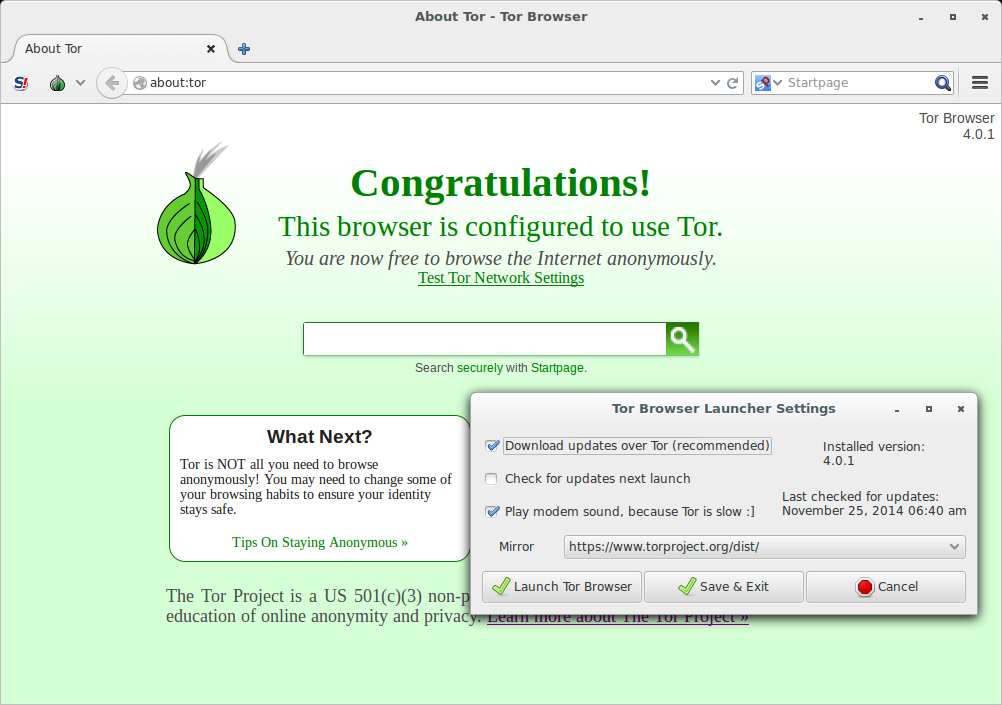
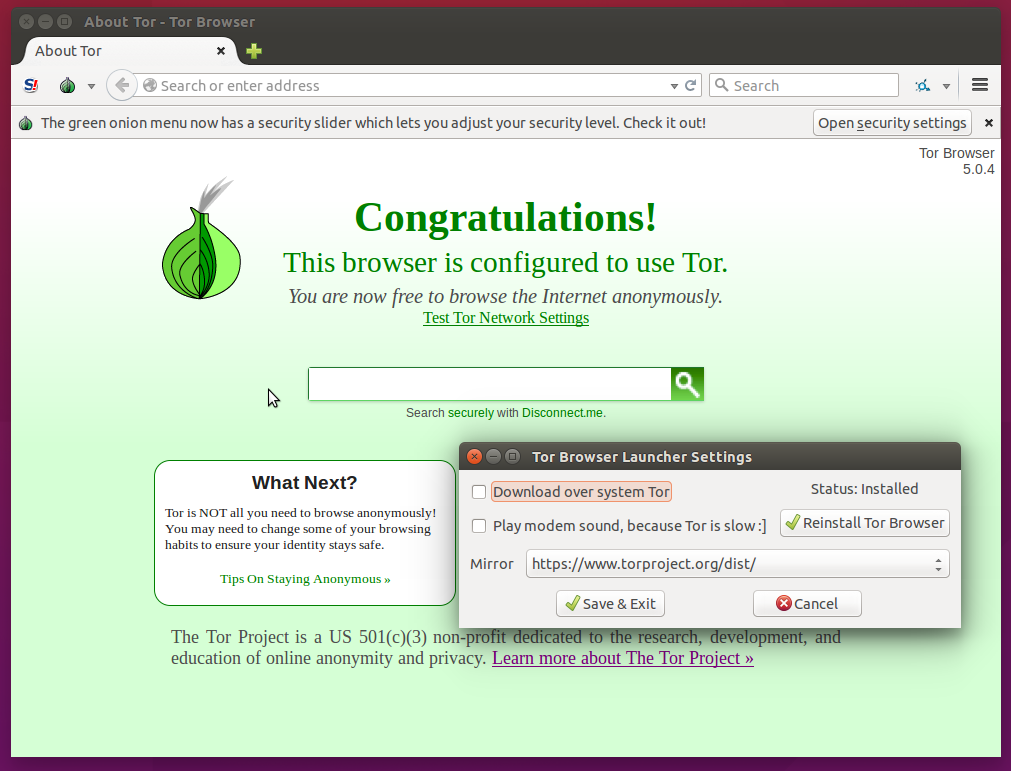
Updated README, and included new screenshot to show off new settings (#198)

diff --git a/README.md b/README.md
@@ -1,29 +1,23 @@
 # Tor Browser Launcher
 
-Tor Browser Launcher is intended to make the Tor Browser Bundle (TBB) easier to maintain and use for GNU/Linux users. You install ```torbrowser-launcher``` from your distribution's package manager and it handles everything else, including:
+Tor Browser Launcher is intended to make the Tor Browser easier to install and use for GNU/Linux users. You install ```torbrowser-launcher``` from your distribution's package manager and it handles everything else:
 
-* Downloading the most recent version of TBB for you, in your language and for your architecture
-* Automatically updating (not preserving your bookmarks and preferences)
-* Verifying the TBB's [GnuPG signature](http://www.gnupg.org/gph/en/manual/x135.html)
+* Downloads the most recent version of Tor Browser in your language and for your computer's architecture (Tor Browser will automatically update itself)
+* Certificate pins to https://www.torproject.org, so it doesn't rely on certificate authorities
+* Verifies Tor Browser's [OpenPGP signature](https://www.torproject.org/docs/verifying-signatures.html.en) for you, to ensure the version you downloaded is not tampered with
+* Adds "Tor Browser" and "Tor Browser Launcher Settings" application launcher to your desktop environment's menu
 * Includes AppArmor profiles to make a Tor Browser compromise not as bad
-* Adding a "Tor Browser" application launcher to your desktop environment's menu
 * Optionally playing a modem sound when you open Tor Browser (because Tor is so slow)
 
-Tor Browser Launcher is included in Ubuntu 14.10+, Debian 8+, and Fedora 20+. To install it in any other distribution, see the [build instructions](/BUILD.md).
+Tor Browser Launcher is included in Ubuntu, Debian, and Fedora. To install it in any other distribution, see the [build instructions](/BUILD.md).
 
 You might want to check out the [security design doc](/security_design.md).
 
 ![Tor Browser Launcher screenshot](/screenshot.png)
 
-## Using Tor Browser as your default browser, and Firefox
+# Installing in Ubuntu
 
-Tor Browser Launcher allows you to set Tor Browser as your default web browser. Unfortunately, there's a gnarly issue that prevents this from working if Firefox is open in the background. If Tor Browser is set as your default browser and Firefox is open in the background, links will get opened in Firefox. Likewise, if Firefox is your default browser and Tor Browser is open in the background, links will get opened in Tor Browser. See more information [here](https://github.com/micahflee/torbrowser-launcher/issues/157).
-
-You can only use Tor Browser as your default browser if you don't use Firefox at the same time. Other browser (such as Iceweasel, Chromium, or Chrome) will work fine. You must check "Allow opening links with Tor Browser" in the settings to enable it.
-
-## Installing in Ubuntu 14.04 and later
-
-I've created a PPA where I'm maintaining torbrowser-launcher binaries. You can install in an Ubuntu-based distribution like this:
+If you want to always have the latest version of the `torbrowser-launcher` package before your distribution gets it, you can use my PPA:
 
 ```sh
 sudo add-apt-repository ppa:micahflee/ppa
